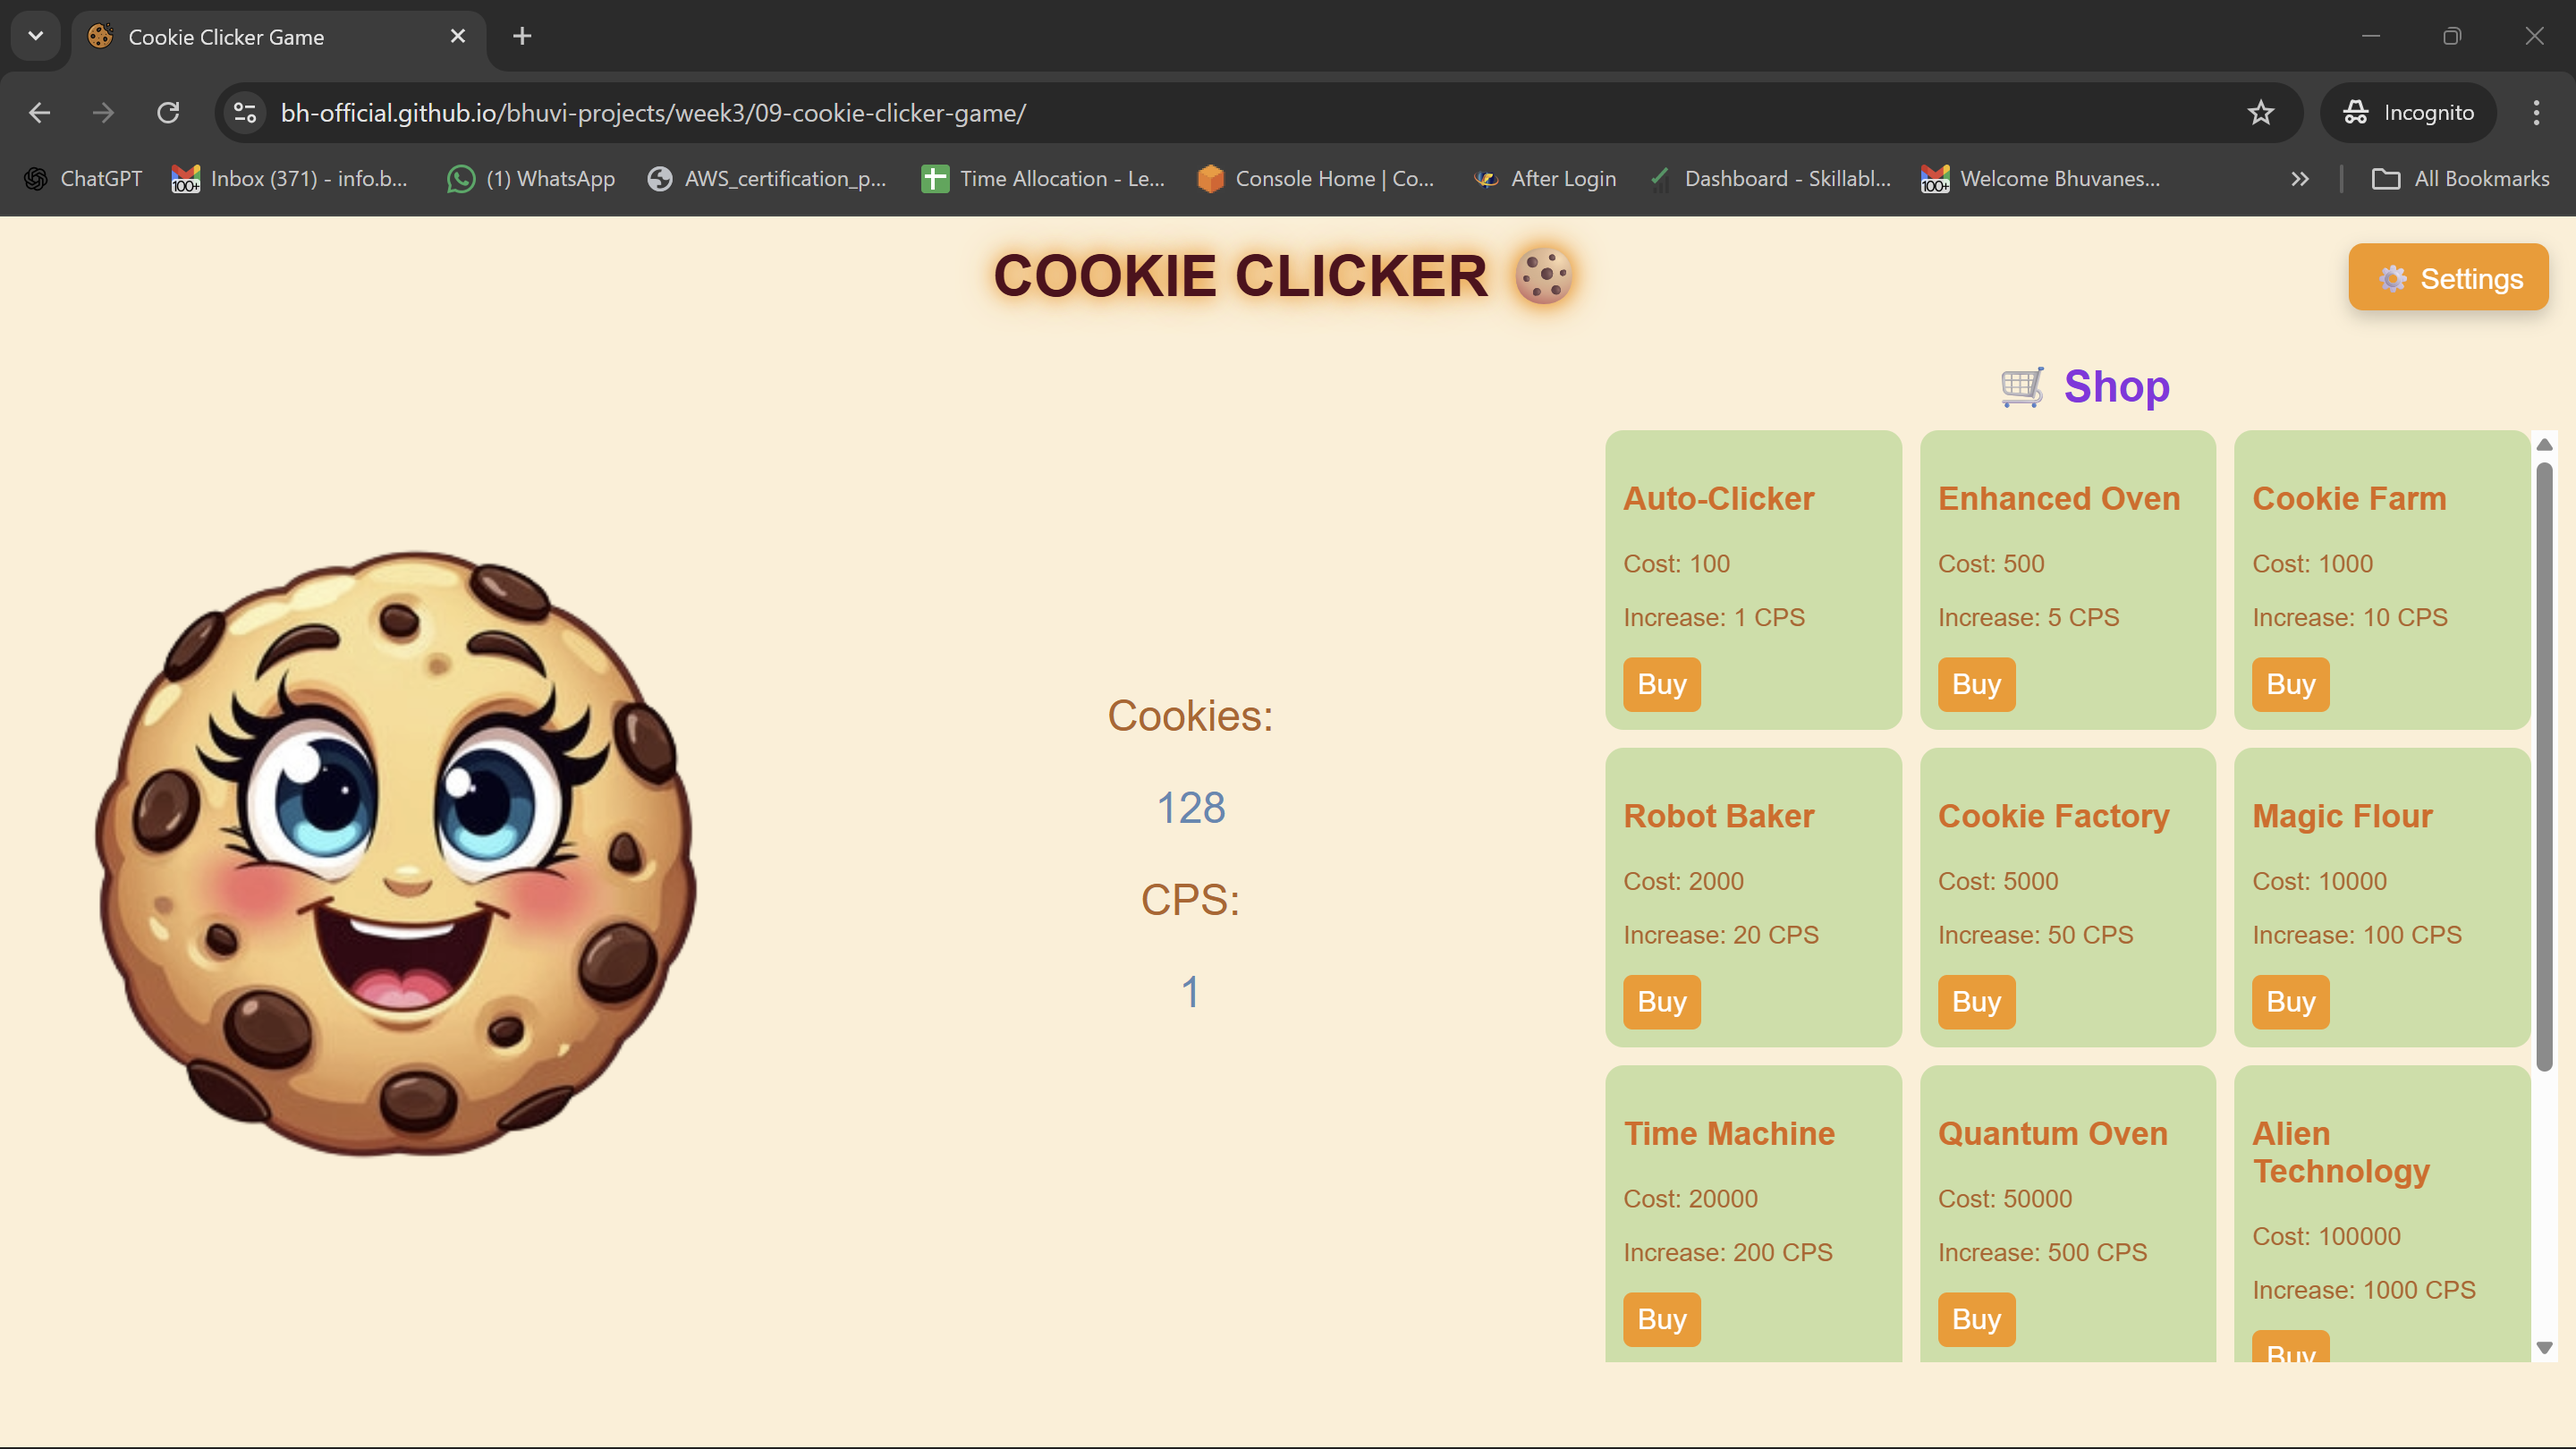
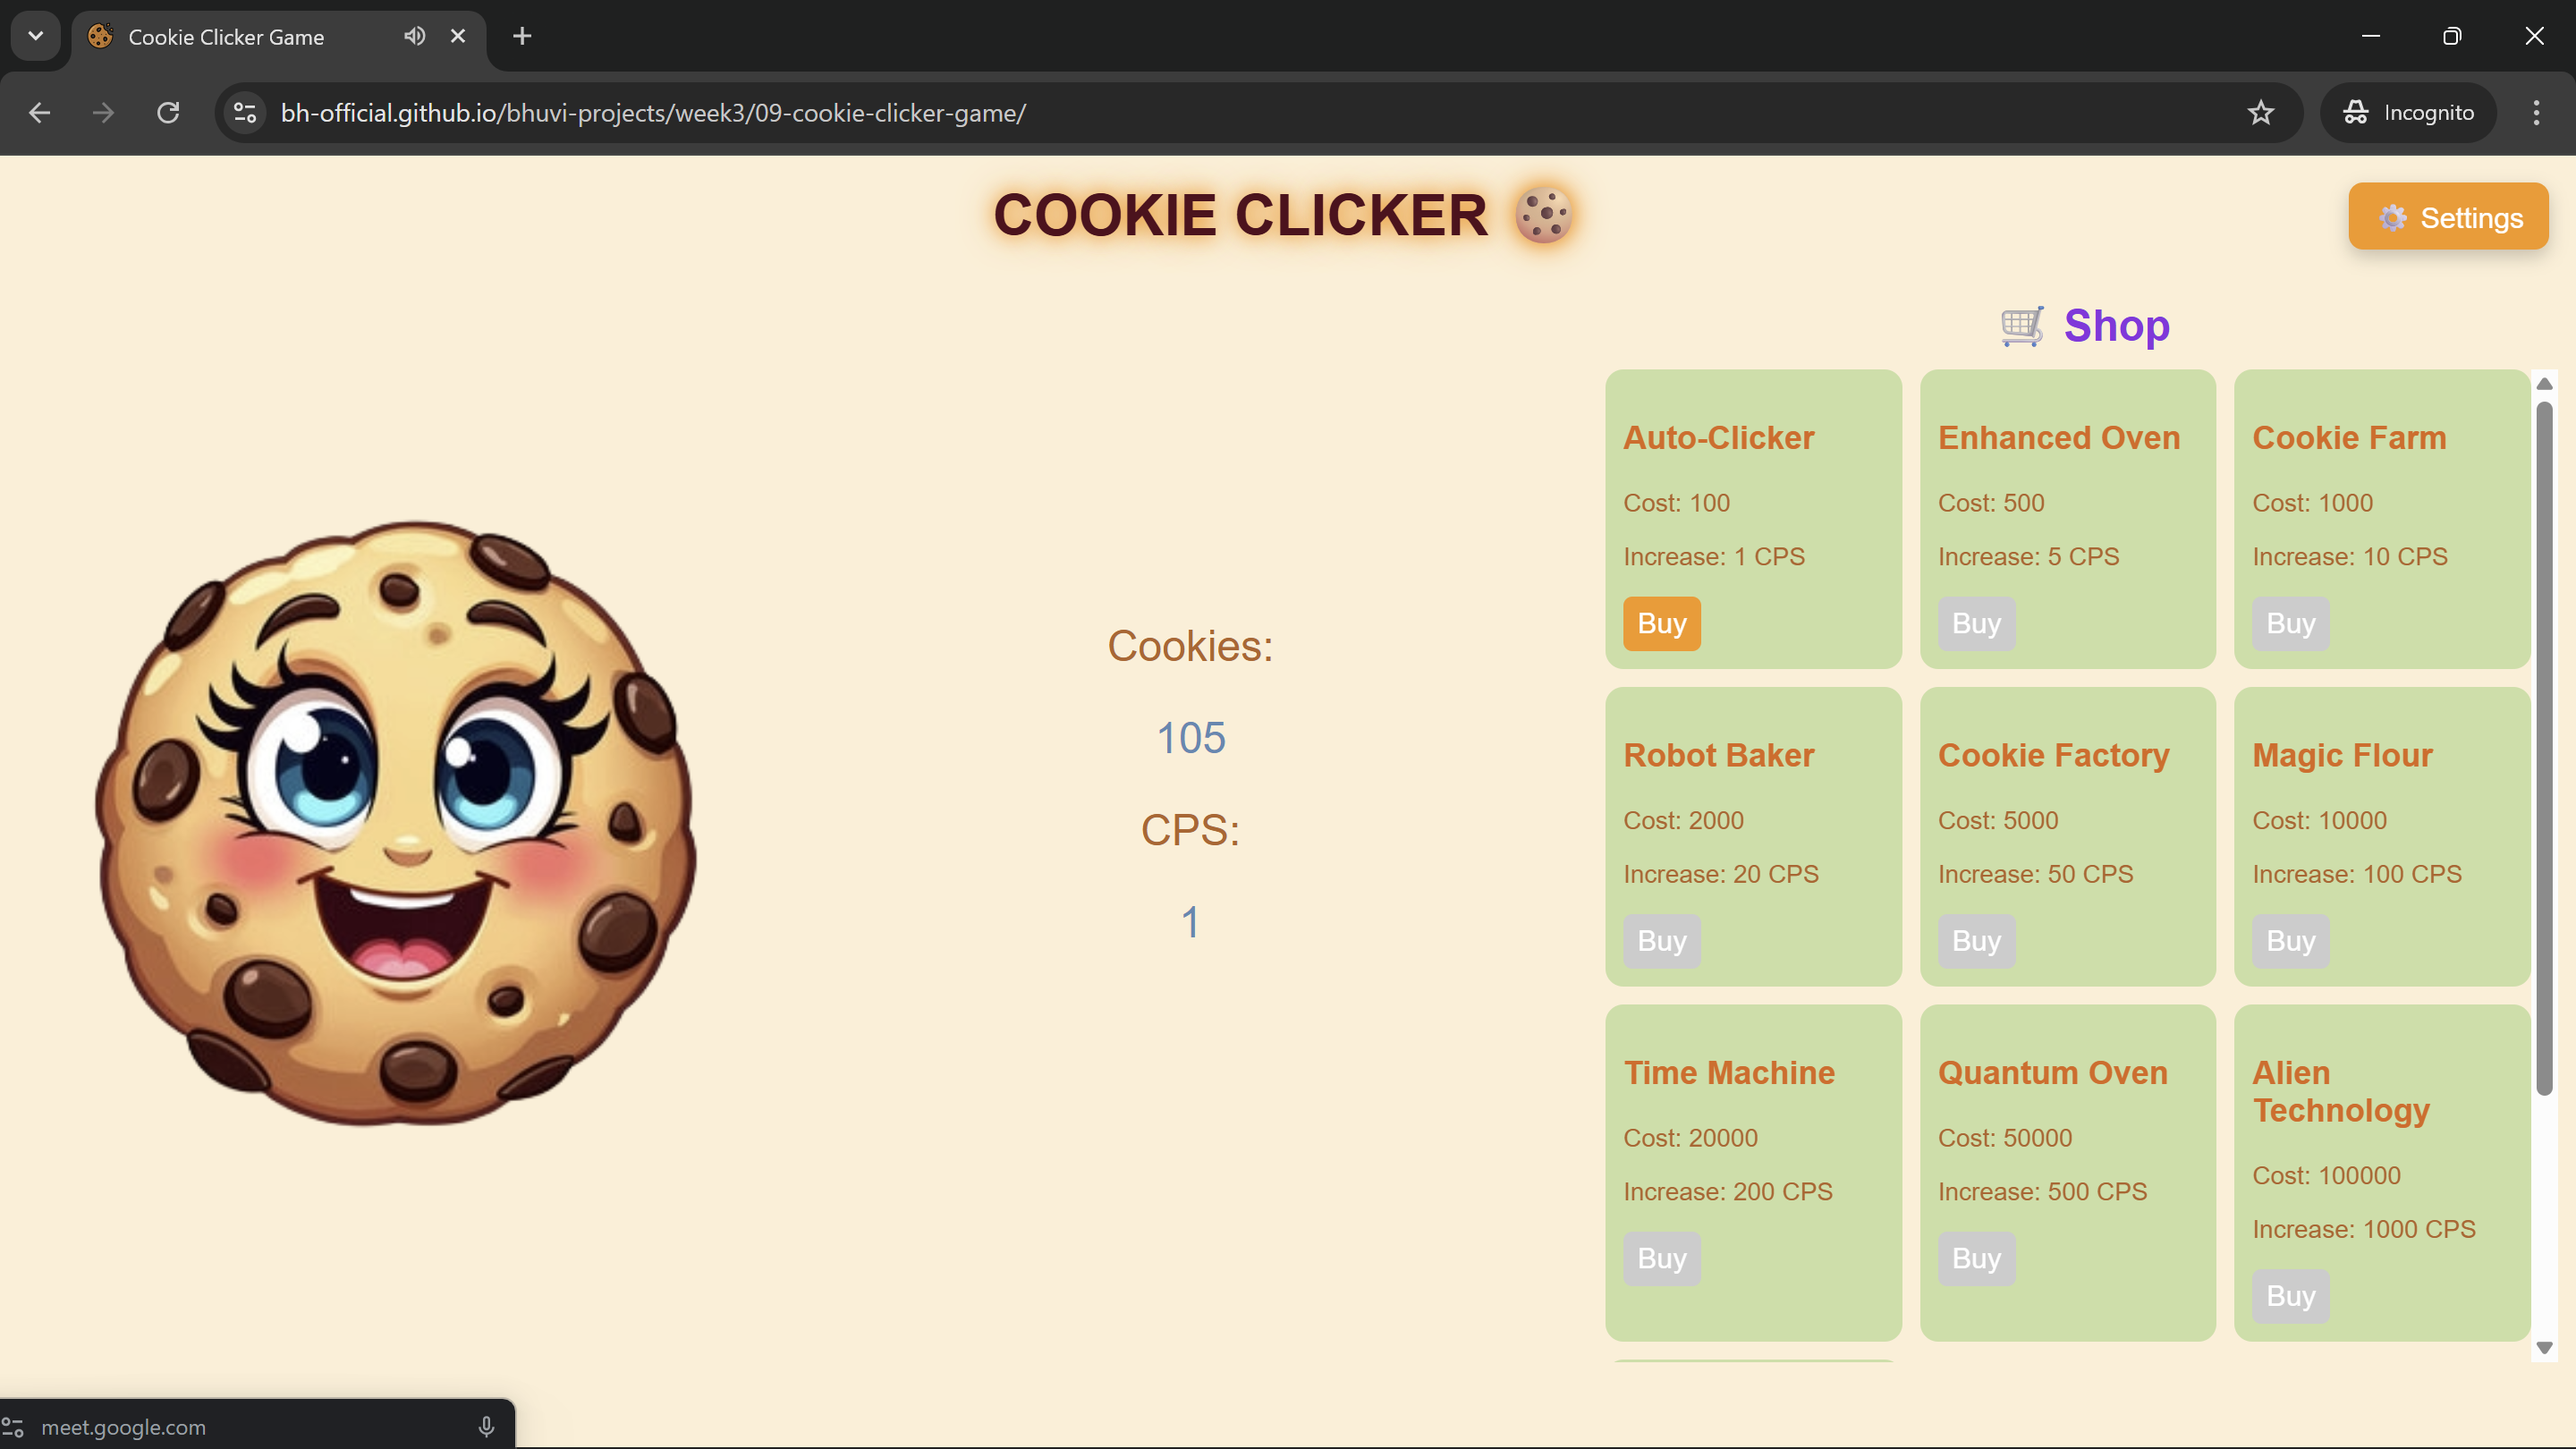
modified readme

diff --git a/week3/09-cookie-clicker-game/script.js b/week3/09-cookie-clicker-game/script.js
@@ -49,8 +49,8 @@ darkModeToggle.addEventListener("change", () => {
     applyTheme();
 });
 
-// applying theme
 
+// applying theme darkmode and light mode
 function applyTheme() {
     const darkMode = localStorage.getItem("darkMode") === "true";
 
@@ -143,15 +143,9 @@ function buyUpgrade(upgrade, event){
         const y = rect.top;
 
         showFloatingText("+" + upgrade.increase + " CPS", x, y);
-        // if the floating text pops out play the buy sound
+        // while the floating text pops out play the buy sound
         playSound(buySound);
 
-    }
-    else{
-        message.textContent = "❌ Not enough cookies!";
-        setTimeout(() => {
-        message.textContent = "";
-        }, 1500);
     }
 }
 
@@ -202,10 +196,10 @@ async function fetchData(){
 
     updateShopButtons();
 
-} catch (error) { // try/catch stretch goal
-    console.error("Failed to load upgrades:", error);
-    message.textContent = "❌ Failed to load shop. Please refresh the page.";
-  }
+    } catch (error) { // try/catch stretch goal
+        console.error("Failed to load upgrades:", error);
+        message.textContent = "❌ Failed to load shop. Please refresh the page.";
+    }
 }
 
 // function to disable the buttons which has high number than cookie count
@@ -218,7 +212,6 @@ function updateShopButtons() {
         btn.disabled = cookieCount < upgrade.cost;
     });
 }
-
 
 fetchData()
 

diff --git a/week3/09-cookie-clicker-game/README.md b/week3/09-cookie-clicker-game/README.md
@@ -32,7 +32,9 @@ https://github.com/bh-official/bhuvi-projects/tree/main/week3/09-cookie-clicker-
 - A ⚙ Settings menu allows:
   - Enabling/disabling sound
   - Toggling dark mode
-
+  - Pausing / resuming the game
+  - Resetting the game
+  
 ---
 
 ## ✨ Features
@@ -41,13 +43,34 @@ https://github.com/bh-official/bhuvi-projects/tree/main/week3/09-cookie-clicker-
 - Automatic cookie generation using `setInterval`
 - Dynamic shop built from API data
 - Upgrade purchasing system
+- Disabled buy buttons if not affordable
 - Floating text animations
 - Sound effects
 - Dark mode
 - Settings menu
+- Pause / Resume system
+- Reset game system
 - Local storage save system
 - Error handling using `try/catch`
 - Responsive layout using Flexbox & Grid
+
+---
+
+## 🧰 Built-in JavaScript Learnt from this project
+
+- getBoundingClientRect() — to calculate exact screen positions for floating text animations.
+- Audio() — to create and play sound effects.
+- play() — to play sound effects when clicking or buying upgrades.
+- Number() — to convert stored string values into numbers.
+- confirm() — to show a confirmation dialog before resetting the game.
+- location.reload() — to reload the page after resetting the game.
+- Error() — to create a custom error object when something goes wrong (e.g., API failure).
+- throw — to manually stop execution and trigger error handling.
+- try / catch — to safely handle errors like failed network requests without crashing the app.
+- console.error() — to log error messages in the browser console for debugging.
+- remove() — to remove a DOM element from the page (used for deleting floating text after animation).
+- classList.add() — to add CSS classes dynamically (used for dark mode and opening panels).
+- e.clientX, e.clientY — to get the mouse click position on the screen (used to position floating text).
 
 ---
 
@@ -72,8 +95,6 @@ https://github.com/bh-official/bhuvi-projects/tree/main/week3/09-cookie-clicker-
 
 Upgrade data is fetched from: https://cookie-upgrade-api.vercel.app/api/upgrades
 
----
-
 The shop UI is generated dynamically from the API response.
 
 ---
@@ -86,6 +107,7 @@ The shop UI is generated dynamically from the API response.
 - The shop UI is created dynamically from fetched data
 - Floating text animations are positioned using `getBoundingClientRect()`
 - Settings are saved and restored using `localStorage`
+- UI state is kept in sync using updateShopButtons()
 
 ---
 
@@ -94,12 +116,13 @@ The shop UI is generated dynamically from the API response.
 - The shop fetch request is wrapped in a `try/catch`
 - If the API fails, an error message is shown to the user
 - If the player tries to buy an upgrade without enough cookies, a warning message appears
+- The game does not crash if something goes wrong
 
 ---
 
 ## 🧩 Challenges Faced and How I Overcame Them
 
-This project was much more difficult than it looked at the beginning. Even though the game seems simple, building it using JavaScript involved many different concepts working together, which was challenging for me.
+This project was much more difficult than it looked at the beginning. Even though the game seems simple, building it using JavaScript involved many different concepts working together.
 
 ### 1. Understanding How to Structure the Game Logic
 
@@ -107,6 +130,7 @@ At first, I did not know how to even start. I knew I needed a cookie that increa
 
 I solved this by:
 - Breaking the project into very small steps (first only clicking, then auto-increment, then shop, then settings).
+- Building features one by one.
 - Writing separate functions for each feature.
 - Slowly connecting everything together instead of trying to build everything at once.
 
@@ -114,16 +138,13 @@ I solved this by:
 
 ### 2. Managing Cookie Count and CPS Together
 
-One big confusion for me was understanding the difference between:
-- Clicking the cookie (manual increase)
-- Automatic increase using CPS every second
-
-At first, I mixed up these two logics and my numbers were behaving strangely.
+At first I mixed up:
+- Clicking logic
+- Automatic CPS logic
 
 I fixed this by:
 - Using two separate variables: `cookieCount` and `cps`
 - Using `setInterval` only for automatic increase
-- Updating the screen from these variables every second
 
 ---
 
@@ -143,17 +164,12 @@ I overcame this by:
 
 ### 4. Fetching Data from the API and Building the Shop
 
-This was one of the hardest parts. I had never built UI from API data before.
+This was one of the hardest parts. 
 
-Problems I faced:
-- I didn’t understand how `fetch`, `async`, and `await` work together
-- I didn’t know how to loop through the API data and create HTML elements
-
-I solved this by:
-- Logging the API data and studying its structure
-- Using `forEach` to loop through upgrades
-- Using `document.createElement()` to build the shop dynamically
-- Attaching event listeners inside the loop
+I Learned:
+- How `fetch`, `async`, and `await` work
+- How to loop through API data
+- How to dynamically create UI elements using JavaScript
 
 ---
 
@@ -171,7 +187,7 @@ After using this, the animation started appearing in the correct place.
 
 ### 6. Handling Errors Without Breaking the Layout
 
-When the API failed or when the user didn’t have enough cookies, my messages were breaking the layout.
+When the API failed, my messages were breaking the layout.
 
 I fixed this by:
 - Creating a dedicated `<p id="message">` area in the UI
@@ -180,23 +196,34 @@ I fixed this by:
 
 ---
 
-### 7. Implementing Settings (Sound & Dark Mode)
+### 7. Preventing Users from Buying Unaffordable Items
+
+At first, users could click buy even without enough cookies.
+
+I fixed this by:
+- Disabling buttons dynamically using `updateShopButtons()`
+
+---
+
+### 8. Implementing Settings (Sound, Dark Mode, Pause, Reset)
 
 This part was confusing because:
 - The settings had to persist after reload
 - The UI had to change based on saved settings
 - Sounds should only play if enabled
+- Dame must stop when paused
 
 I solved this by:
 - Saving settings in `localStorage`
 - Creating `loadSettings()` and `applyTheme()` functions
 - Checking settings before playing any sound
+- Adding a pause flag `isPaused`
 
 ---
 
-### 8. Managing a Bigger JavaScript File
+### 9. Managing a Large JavaScript File
 
-As the project grew, the file became long and difficult to understand.
+As the project grew, the file became long and complex.
 
 I improved this by:
 - Grouping related logic into functions
@@ -211,8 +238,8 @@ I improved this by:
 - How to use APIs in a real project
 - How to dynamically create UI from data
 - How to use Local Storage properly
-- How `setInterval` works in real apps
-- How to structure a bigger JavaScript file
+- How game loops work using `setInterval` 
+- How to structure a larger JavaScript programs
 - How to debug UI and logic problems
 
 ---
@@ -236,13 +263,14 @@ I improved this by:
 
 ---
 
-### ❓ Were there any requirements or goals that were difficult?
+### ❓ Were there any requirements or goals that were unable to achieve?
 
-- Understanding how to structure the game logic and game loop
-- Managing UI updates and game state together
-- Positioning floating animations correctly on the screen
-- Connecting the settings menu to real game behaviour (sound and theme)
-- Managing many features in one project 
+- All core requirements of the assignment were successfully completed.
+- The game includes API integration, automatic cookie generation, a dynamic shop system, local storage saving, settings, animations, and error handling.
+- One optional improvement that was not fully implemented is saving the ownership state of each individual upgrade.
+- Instead, the game saves and restores the total CPS value, which still correctly restores gameplay progress.
+- This decision was made because the current implementation already satisfies all assignment requirements and stretch goals.
+- No required features were left incomplete; the remaining ideas are optional enhancements rather than missing functionality.
 
 ---
 
@@ -251,7 +279,7 @@ I improved this by:
 - The shop system works dynamically using API data
 - The game saves and restores progress correctly
 - The UI feels interactive and game-like with animations and sounds
-- The settings system makes the game feel more professional and complete
+- The settings system makes the game feel more complete and polished
 
 ---
 
@@ -278,6 +306,6 @@ Built by: **Bhuvaneswari**
 
 ## 🏆 Final Words
 
-This project helped me move from writing small scripts to building a **real interactive application**. It improved my confidence in JavaScript and helped me understand how real web apps are structured.
+This project helped me move from writing small scripts to building a **real interactive application**. It improved my confidence in JavaScript and helped me understand how real web apps and game systems are structured.
 
 
